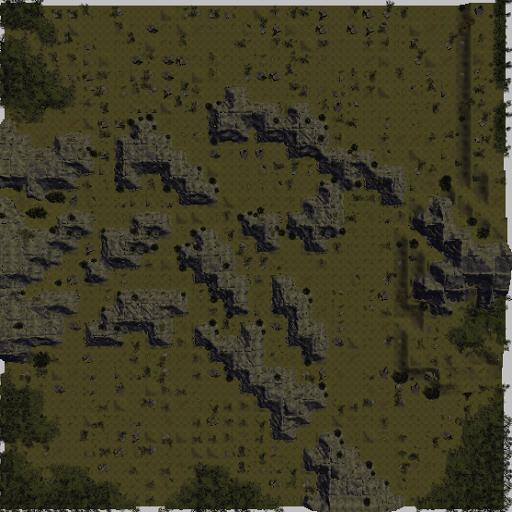
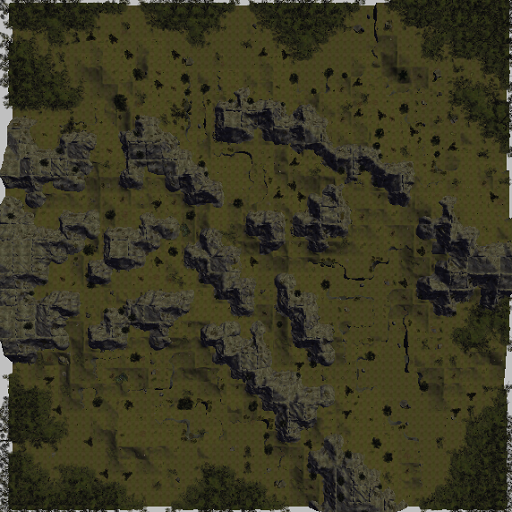
v220213

diff --git a/common.js b/common.js
@@ -18,7 +18,7 @@ var map = {
         '0map',          '0map',          '0map',          '0map',          '0map',          '0map',            '0map',           '0map',            '0map',            '0map',            '0map',            '0map',            '0map',            '0map',            '0map',            '0map',            '0map',            '0map',            '0map',            '0map',           '0map',           '0map',                't_varyth_torf_w', 't_varyth_tor',    't_varyth_torf_e', '0map',         '0map',             '0map',         '0map',         '0map',       
         't_zazesspur_nw','t_zazesspur_ne','0map',          '0map',          '0map',          '0map',            '0map',           '0map',            '0map',            '0map',            '0map',            '0map',            '0map',            '0map',            '0map',            '0map',            '0map',            '0map',            't_lhestyn_quay',  't_masamont_road','t_masamount',    't_masamount_wudn',    't_varyth_torf_sw','t_varyth_torf_s', 't_varyth_torf_se','0map',         '0map',             '0map',         '0map',         '0map',       
         't_zazesspur_sw','t_zazesspur_se','t_venezir_ne'  ,'SulZaz2',       '0map',          '0map',            't_tethyrcast_nw','t_tethyrcast_n',  't_tethyrcast_ne', 'SuldusBard1',     '0map',            'IthmonSulW',      't_hostim_quay',   't_ithmn_sul_e',   't_ithmn_sul_e1',  't_ithmn_sul_e2',  't_grannox',       't_grannox_farms', 't_lhestynheart',  't_freelm_farms', 't_freelmanse',   't_masamount_wuds',    't_varyth_plain_w','t_varyth_plain_c','t_varyth_plain_e','0IthalRoadWE', '0IthalRoadWES',    '0IthalRoadWE', '0IthalRoadWS', '0map',       
-        't_venezir_sw',  't_venezir_s',   't_venezir_se'  ,'SulZaz3',       'SulZaz4',       'SulZaz5',         't_tethyrcast_w', 't_tethyrcast',    't_tethyrcast_e',  'SuldusBard2',     'SuldusBard3',     'SuldusBard4',     't_hostim',        '0map',            't_ithmon_crag_nw','t_ithmon_crag_ne','t_lhest_gorge',   't_lhest_farm_sw', 't_lhest_farm_s',  't_lhest_farm_se','t_rivshrehill_n','t_rivshrehill_ne',    't_varyth_hill_nw','t_varyth_hill_n', 't_varyth_hill_ne','0map',         't_iltarghal',      '0map',         't_survale',    '0map',       
+        't_venezir_sw',  't_venezir_s',   't_venezir_se'  ,'SulZaz3',       'SulZaz4',       'SulZaz5',         't_tethyrcast_w', 't_tethyrcast',    't_tethyrcast_e',  'SuldusBard2',     'SuldusBard3',     't_hostim_hill_nw','t_hostim',        '0map',            't_ithmon_crag_nw','t_ithmon_crag_ne','t_lhest_gorge',   't_lhest_farm_sw', 't_lhest_farm_s',  't_lhest_farm_se','t_rivshrehill_n','t_rivshrehill_ne',    't_varyth_hill_nw','t_varyth_hill_n', 't_varyth_hill_ne','0map',         't_iltarghal',      '0map',         't_survale',    '0map',       
         '0map',          '0map',          't_vintor_okr_1','t_vintor_okr_2','t_vintor_okr_3','t_bardshyr_okr',  't_tethyrcast_sw','t_tethyrcast_s',  't_tethyrcast_se', '0map',            '0map',            't_hostim_hill_w', 't_hostim_road',   't_hostim_hill_e', 't_ithmon_crag_sw','t_ithmon_crag_se','t_qonsir',        't_qonsir_farm',   't_lhest_road',    't_rivshrehill_w','t_rivshrehill_c','t_st_ostus',          't_varyth_hill_sw','t_varyth_hill_s', 't_varyth_hill_se','0map',         '0map',             '0map',         '0IthalRoadNS', '0map',       
         '0map',          '0map',          '0map',          '0map',          '0map',          't_sahark_crossrd','t_saharkhan',    't_bardshy_itr_1', 't_bardshy_itr_2', 't_bardshy_itr_3', 't_bardshy_itr_4', 't_ithmon_ithr_w1','t_ithmon_ithr_w2','t_ithmon_lorcros','t_ithmon_ithr_e1','t_ithmon_ithr_e2','t_rvrshr_ithrdw', 't_crownfarms_nw', 't_crownfarms_n',  't_crownfarms_ne','t_rivshrehill_s','t_rivshrehill_se',    '0map',            '0map',            't_thrynnar_hold', '0IthalRoadWE', '0IthalRoadWE',     '0IthalRoadWE', '0IthalRoadNWS','0map',       
         '0map',          '0map',          '0map',          '0map',          '0map',          't_soldieroad_1',  '0map',           '0map',            '0map',            '0map',            '0map',            't_ithmon_pipe_n', 't_ithmon_farm_nw','t_ithmon_farm_n', 't_ithmon_farm_ne','t_loransewood_n', 't_crownfarms_iw2','t_crownfarms_iw1','t_darromar',      't_foyen_rd',     't_foyen',        '0map',                '0map',            '0map',            '0IthalRoadNS',    '0map',         '0map',             '0map',         '0IthalRoadEN', 't_veaddakar',       
